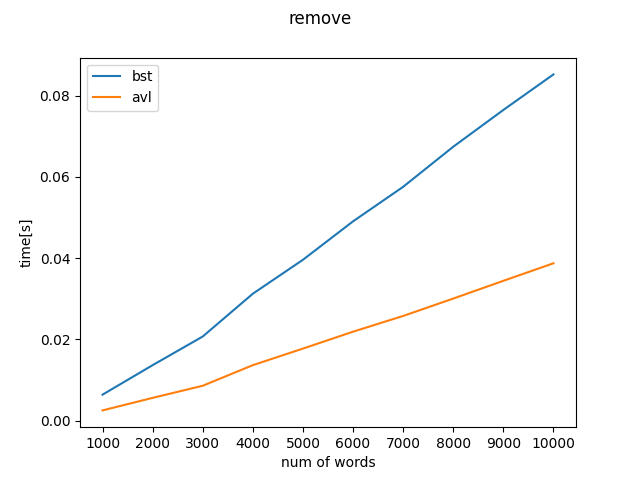
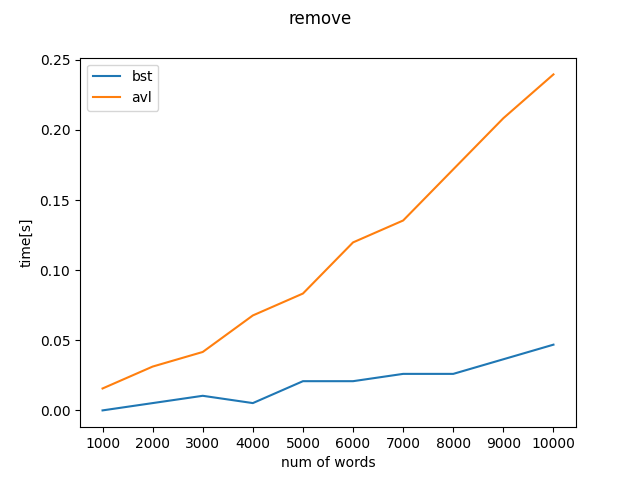
fixed remove again

diff --git a/tree.py b/tree.py
@@ -1,22 +1,20 @@
-
-
 class bstNode:
     def __init__(self, val) -> None:
         self.val = val
-        self.l_child = None
-        self.r_child = None
+        self.left = None
+        self.right = None
 
     def setRightChild(self, node:'bstNode') -> None:
-        self.r_child = node
+        self.right = node
 
     def setLeftChild(self, node:'bstNode') -> None:
-        self.l_child = node
+        self.left = node
 
     def getRightChild(self):
-        return self.r_child
+        return self.right
 
     def getLeftChild(self):
-        return self.l_child
+        return self.left
 
     def getVal(self) -> int:
         return self.val
@@ -32,22 +30,22 @@ class bstNode:
     def _printHelper(self) -> str:
         val_str = str(self.val)
         val_len = len(val_str)
-        if self.l_child is None and self.r_child is None:
+        if self.left is None and self.right is None:
             return [val_str], val_len, 1, val_len//2
-        if self.l_child is None:
-            lines, width, height, middle = self.r_child._printHelper()
+        if self.left is None:
+            lines, width, height, middle = self.right._printHelper()
             line_1 = val_str+middle*'_'+(width-middle)*' '
             line_2 = (val_len+middle)*' '+'\\'+(width-middle-1)*' '
             lines = [val_len*' ' + line for line in lines]
             return [line_1, line_2]+lines, width+val_len, height+2, val_len//2
-        if self.r_child is None:
-            lines, width, height, middle = self.l_child._printHelper()
+        if self.right is None:
+            lines, width, height, middle = self.left._printHelper()
             line_1 = (middle+1)*' '+(width-middle-1)*'_'+val_str
             line_2 = middle*' '+'/'+(width-middle-1+val_len)*' '
             lines = [line+val_len*' 'for line in lines]
             return [line_1, line_2]+lines, width+val_len, height+2, width+val_len//2
-        l_lines, l_width, l_height, l_middle = self.l_child._printHelper()
-        r_lines, r_width, r_height, r_middle = self.r_child._printHelper()
+        l_lines, l_width, l_height, l_middle = self.left._printHelper()
+        r_lines, r_width, r_height, r_middle = self.right._printHelper()
         line_1 = (l_middle+1)*' '+(l_width - l_middle - 1)*'_'+val_str+r_middle*'_'+(r_width-r_middle)*' '
         line_2 = l_middle*' '+'/'+(l_width-l_middle-1+val_len+r_middle)*' '+'\\'+(r_width-r_middle-1)*' '
         if l_height < r_height:
@@ -58,7 +56,7 @@ class bstNode:
         val_len+r_width+l_width, max(l_height, r_height)+2, l_width+val_len//2
 
 
-class BST:
+class bstTree:
     def __init__(self, root: bstNode) -> None:
         self.root:bstNode = root
         self.nodes = dict()
@@ -82,7 +80,7 @@ class BST:
         node = self.root
         while (node is not None):
             if node.getVal() == val:
-                return BST(node)
+                return bstTree(node)
             elif val > node.getVal():
                 node = node.getRightChild()
             else:
@@ -163,9 +161,17 @@ class BST:
             out_str += (line + "\n")
         return out_str
 
+    def save(self):
+        with open('text.txt', 'w') as fp:
+            lines, *_ = self.root._printHelper()
+            for line in lines:
+                fp.write(line + "\n")
+
 class avlNode(bstNode):
-    def __init__(self, val) -> None:
-        bstNode.__init__(self, val)
+    def __init__(self, val):
+        self.val = val
+        self.left = None
+        self.right = None
         self.height = 1
 
     def getHeight(node: 'avlNode') -> int:
@@ -181,7 +187,7 @@ class avlNode(bstNode):
         self.l_child = node.getLeftChild()
         self.r_child = node.getRightChild()
 
-class avlTree(BST):
+class avlTree(bstTree):
     def __init__(self, root: avlNode, treshold=1) -> None:
         self.root:avlNode = root
         self.nodes = dict()
@@ -266,10 +272,7 @@ class avlTree(BST):
     def remove(self, val:int) -> None:
         self.root = self._remove_helper(val, self.root)
 
-    def _remove_helper(self, val:int, node:avlNode='no') -> avlNode:
-        if node == 'no':
-            node = self.root
-
+    def _remove_helper(self, val:int, node:avlNode) -> avlNode:
         if not node:
             return node
 
@@ -280,19 +283,19 @@ class avlTree(BST):
             node.setRightChild(self._remove_helper(val, node.getRightChild()))
 
         else:
-            if node.getLeftChild() is None:
-                temp = node.getRightChild()
+            if not node.getLeftChild() and not node.getRightChild():
                 node = None
-                return temp
+            elif node.getLeftChild() is None:
+                node = node.getRightChild()
 
             elif node.getRightChild() is None:
-                temp = node.getLeftChild()
-                node = None
-                return temp
+                node = node.getLeftChild()
+            else:
 
-            temp = self.getMinValueNode(node.getRightChild())
-            node.val = temp.getVal()
-            node.setRightChild(self._remove_helper(temp.getVal(), node.getRightChild()))
+
+                temp = self.getMinValueNode(node.getRightChild())
+                node.val = temp.getVal()
+                node.setRightChild(self._remove_helper(temp.getVal(), node.getRightChild()))
         if node is None:
             return node
 

diff --git a/main.py b/main.py
@@ -4,7 +4,7 @@ import time
 import gc
 from matplotlib import pyplot as plt
 import sys
-sys.setrecursionlimit(100)
+sys.setrecursionlimit(1000)
 
 insert_times_blt = []
 remove_times_blt = []
@@ -12,14 +12,17 @@ find_times_blt = []
 insert_times_avl = []
 remove_times_avl = []
 find_times_avl = []
-numbers = []
+numbers = [0]
 NUM_OF_NUMBERS = 1000
-for i in range(NUM_OF_NUMBERS*10):
-    numbers.append(random.randint(1,300000))
-
+NUM_OF_ITERATIONS = 10
+num = 0
+for i in range(NUM_OF_NUMBERS*NUM_OF_ITERATIONS):
+    while num in numbers:
+        num = random.randint(1,30000)
+    numbers.append(random.randint(1,30000))
 def measure_time(my_function, i, binary_tree):
     sum_time = 0
-    num_of_tries = 10
+    num_of_tries = 3
     for j in range(num_of_tries):
         gc_old = gc.isenabled()
         gc.disable()
@@ -48,59 +51,48 @@ def plot_it(name, bst_time, avl_time):
     plt.ylabel('time[s]')
     plt.xlabel('num of words')
     plt.plot(avl_time, label = 'avl')
-    plt.xticks(range(10),[i*NUM_OF_NUMBERS for i in range(1,11)])
+    plt.xticks(range(NUM_OF_ITERATIONS),[i*NUM_OF_NUMBERS for i in range(1,NUM_OF_ITERATIONS+1)])
     plt.suptitle(name)
     plt.legend()
     plt.savefig(name+'.png')
     plt.close()
 
 def main():
-    for i in range(1, 11):
-        binary_tree = tree.BST(tree.bstNode(random.randint(1, 30000)))
-        avl_tree = tree.avlTree(tree.avlNode(random.randint(1, 30000)))
-
+    for i in range(1, NUM_OF_ITERATIONS+1):
+        binary_tree = tree.bstTree(tree.bstNode(random.randint(1, 30000)))
+        #avl_tree = tree.AVLTree()
+        avl_tree = tree.avlTree(tree.avlNode(0))
         insert_times_blt.append(measure_time(loop_insert, i, binary_tree))
         insert_times_avl.append(measure_time(loop_insert, i, avl_tree))
 
         find_times_blt.append(measure_time(loop_find, i, binary_tree))
         find_times_avl.append(measure_time(loop_find, i, avl_tree))
 
-        remove_times_blt.append(measure_time(loop_insert, i, binary_tree))
+        remove_times_blt.append(measure_time(loop_remove, i, binary_tree))
         remove_times_avl.append(measure_time(loop_remove, i, avl_tree))
 
     plot_it('insert', insert_times_blt, insert_times_avl)
-    plot_it('remove', remove_times_blt, find_times_avl)
+    plot_it('remove', remove_times_blt, remove_times_avl)
     plot_it('find', find_times_blt, find_times_avl)
 
-    print(insert_times_avl)
-    print(insert_times_blt)
+   # print(insert_times_avl)
+    #print(insert_times_blt)
 
     nodzik = tree.bstNode(20)
-    DRZEWO = tree.BST(nodzik)
+    DRZEWO = tree.bstTree(nodzik)
     DRZEWO.insert(10)
     DRZEWO.insert(9)
-    DRZEWO.insert(8)
-    DRZEWO.insert(7)
-    DRZEWO.insert(6)
-    DRZEWO.insert(5)
+    DRZEWO.insert(9)
+    DRZEWO.insert(9)
+    DRZEWO.insert(9)
+    DRZEWO.insert(9)
     DRZEWO.insert(4)
     DRZEWO.insert(3)
     DRZEWO.insert(2)
     DRZEWO.insert(1)
 
 
-    DRZEWKO = tree.avlTree(root=tree.avlNode(20))
-    DRZEWKO.insert(10)
-    DRZEWKO.insert(9)
-    DRZEWKO.insert(8)
-    DRZEWKO.insert(7)
-    DRZEWKO.insert(6)
-    DRZEWKO.insert(5)
-    DRZEWKO.insert(4)
-    DRZEWKO.insert(3)
-    DRZEWKO.insert(2)
-    DRZEWKO.insert(1)
-    # print(DRZEWKO)
+
     # DRZEWKO.remove(10)
     # print(DRZEWKO)
     # DRZEWKO.remove(9)
@@ -114,11 +106,13 @@ def main():
     # DRZEWKO.remove(1)
     # print(DRZEWKO)
 
-    DRZEWUNIO = tree.avlTree(tree.avlNode(20))
-    for _ in range(30):
-        DRZEWUNIO.insert(random.randint(-100, 100))
-        #print(DRZEWUNIO)
-    #print(DRZEWUNIO)
+        # DRZEWUNIO = tree.avlTree()
+        # #DRZEWUNIO = tree.AVLTree()
+        # for j in range(1000):
+        #     DRZEWUNIO.insert(numbers[j])
+        #     #print(DRZEWUNIO)
+        # #print(DRZEWUNIO)
+        # DRZEWUNIO.save()
 
 
 
